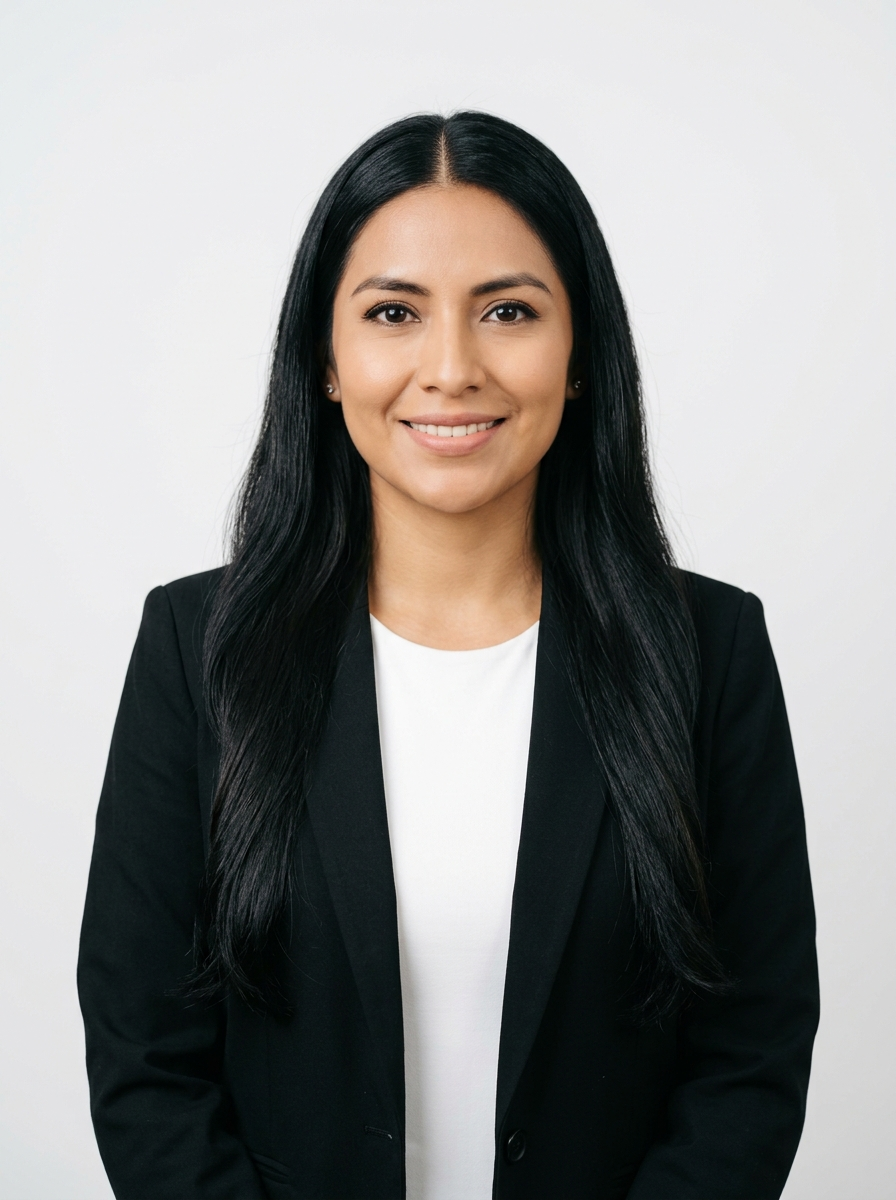
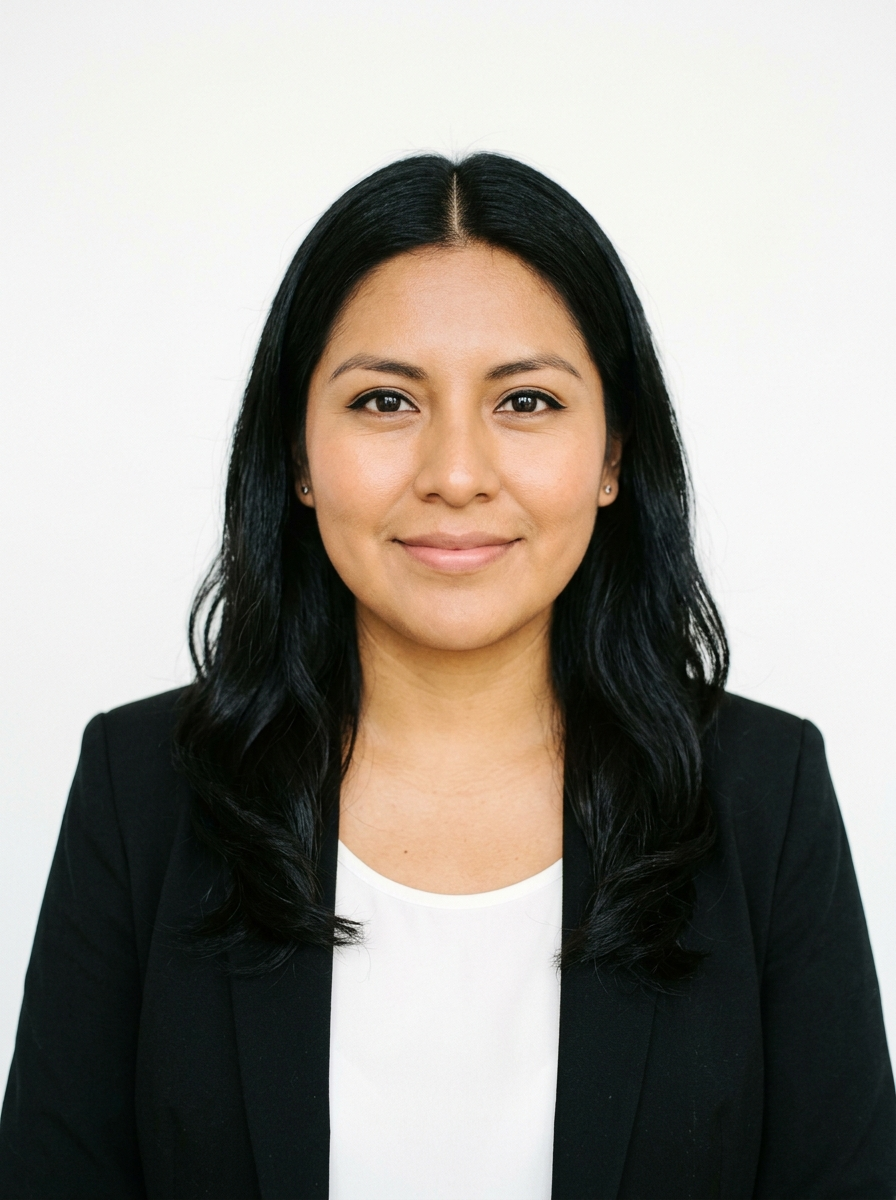
feat: update profile photo and remove upload logic
Replace the portrait image with a new authentic photo and remove the client-side image upload and persistence functionality from the Hero component.

diff --git a/src/components/Hero.tsx b/src/components/Hero.tsx
@@ -1,7 +1,7 @@
-import React, { useState, useRef, useEffect } from 'react';
-import { ArrowDownRight, FileDown, Mail, ShieldCheck, Award, Sparkles, CheckCircle2, Camera, RefreshCw } from 'lucide-react';
+import React, { useState, useEffect } from 'react';
+import { ArrowDownRight, FileDown, Mail, ShieldCheck, Award, Sparkles, CheckCircle2 } from 'lucide-react';
 import { PERSONAL_INFO } from '../data/cvData';
-import defaultPortraitImg from '../assets/images/zaira_salvador_studio_portrait_1791900381465.jpg';
+import defaultPortraitImg from '../assets/images/zaira_authentic_id_photo_1792453734195.jpg';
 
 interface HeroProps {
   onOpenCvModal: () => void;
@@ -9,53 +9,14 @@ interface HeroProps {
 
 export const Hero: React.FC<HeroProps> = ({ onOpenCvModal }) => {
   const [currentPortrait, setCurrentPortrait] = useState<string>(defaultPortraitImg);
-  const [isCustomImage, setIsCustomImage] = useState<boolean>(false);
-  const fileInputRef = useRef<HTMLInputElement>(null);
 
   useEffect(() => {
-    // Check if the user previously uploaded a custom photo in their browser
+    // If a custom portrait was uploaded in browser localStorage, use it; otherwise maintain fixed default
     const savedImg = localStorage.getItem('zaira_custom_portrait');
     if (savedImg) {
       setCurrentPortrait(savedImg);
-      setIsCustomImage(true);
-      // Auto-persist to server disk so it becomes the permanent image for all visitors
-      fetch('/api/save-portrait', {
-        method: 'POST',
-        headers: { 'Content-Type': 'application/json' },
-        body: JSON.stringify({ image: savedImg }),
-      }).catch(() => {});
     }
   }, []);
-
-  const handleImageUpload = (e: React.ChangeEvent<HTMLInputElement>) => {
-    const file = e.target.files?.[0];
-    if (file) {
-      const reader = new FileReader();
-      reader.onloadend = () => {
-        const base64 = reader.result as string;
-        setCurrentPortrait(base64);
-        setIsCustomImage(true);
-        try {
-          localStorage.setItem('zaira_custom_portrait', base64);
-        } catch {
-          // localStorage full or quota exceeded, ignore
-        }
-        // Persist permanently to server disk so it remains for everyone
-        fetch('/api/save-portrait', {
-          method: 'POST',
-          headers: { 'Content-Type': 'application/json' },
-          body: JSON.stringify({ image: base64 }),
-        }).catch(() => {});
-      };
-      reader.readAsDataURL(file);
-    }
-  };
-
-  const handleResetImage = () => {
-    setCurrentPortrait(defaultPortraitImg);
-    setIsCustomImage(false);
-    localStorage.removeItem('zaira_custom_portrait');
-  };
   return (
     <section id="inicio" className="relative pt-28 pb-16 lg:pt-36 lg:pb-24 overflow-hidden bg-gradient-to-b from-slate-50/70 via-white to-white">
       {/* Subtle scientific background elements: molecular grid & light beams */}
@@ -197,35 +158,6 @@ export const Hero: React.FC<HeroProps> = ({ onOpenCvModal }) => {
                 
                 {/* Subtle gradient vignette at bottom */}
                 <div className="absolute inset-0 bg-gradient-to-t from-slate-950/70 via-transparent to-transparent pointer-events-none" />
-
-                {/* Photo quick action controls */}
-                <div className="absolute top-3 right-3 flex items-center gap-1.5 z-20">
-                  <input
-                    ref={fileInputRef}
-                    type="file"
-                    accept="image/*"
-                    onChange={handleImageUpload}
-                    className="hidden"
-                  />
-                  <button
-                    onClick={() => fileInputRef.current?.click()}
-                    title="Cargar tu fotografía personalizada"
-                    className="p-2 rounded-lg bg-black/50 hover:bg-black/75 text-white/90 hover:text-white backdrop-blur-md transition-all shadow-md cursor-pointer flex items-center gap-1 text-[11px] font-medium"
-                  >
-                    <Camera className="w-3.5 h-3.5" />
-                    <span className="hidden sm:inline">Cambiar foto</span>
-                  </button>
-
-                  {isCustomImage && (
-                    <button
-                      onClick={handleResetImage}
-                      title="Restablecer fotografía"
-                      className="p-2 rounded-lg bg-black/50 hover:bg-black/75 text-white/90 hover:text-white backdrop-blur-md transition-all shadow-md cursor-pointer"
-                    >
-                      <RefreshCw className="w-3.5 h-3.5" />
-                    </button>
-                  )}
-                </div>
 
                 {/* Subtitle tag directly inside the image at bottom */}
                 <div className="absolute bottom-4 left-4 right-4 text-white pointer-events-none">
